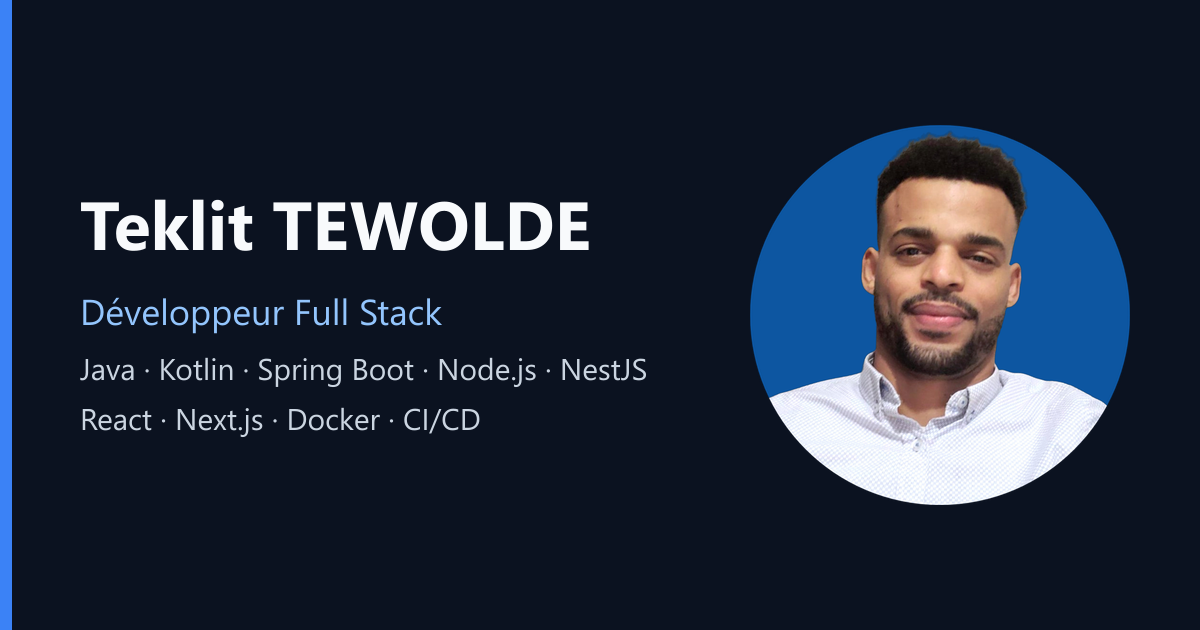
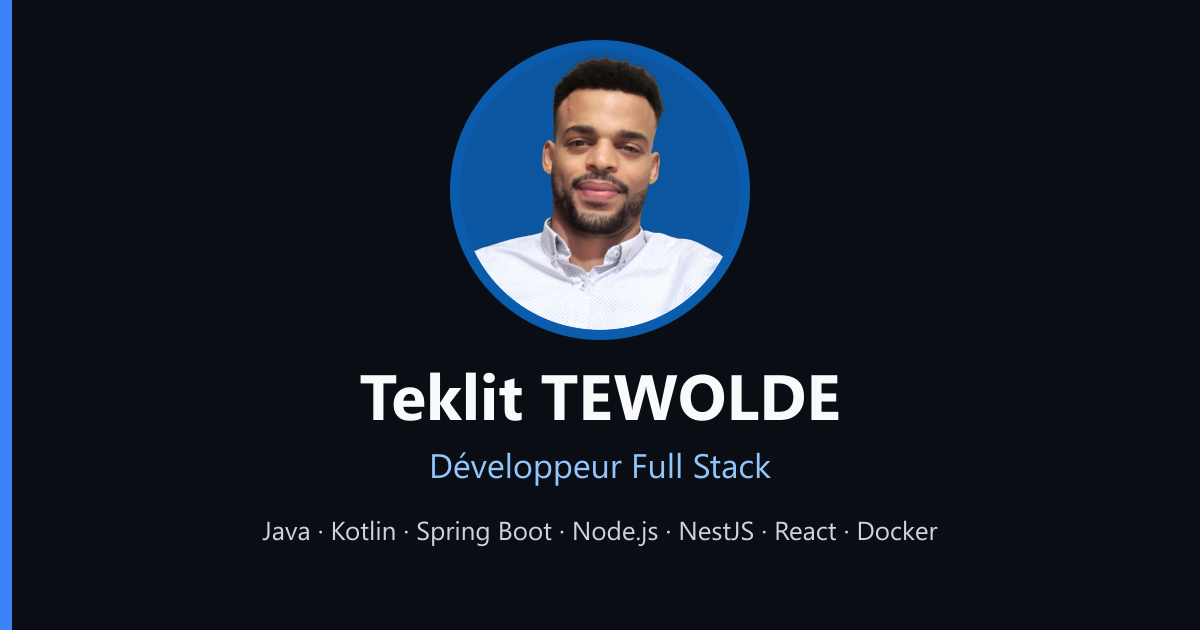
feat: add Open Graph image generation script and update SEO service

Changed region(s): [[0.0617, 0.0603, 0.9558, 0.8746], [0.37, 0.7238, 0.6475, 0.7841], [0.0617, 0.4524, 0.37, 0.5429]]

diff --git a/src/app/core/seo.service.ts b/src/app/core/seo.service.ts
@@ -17,6 +17,8 @@ const SITE_NAME = `${PROFILE.identity.fullName} — Portfolio`;
 const JSON_LD_ID = 'jsonld-page';
 /** Image de partage par défaut (`public/og-image.png`), au format recommandé 1,91:1. */
 const OG_IMAGE = {
+  /** `?v=` : à incrémenter quand l'image change, les plateformes la mettent en cache par URL. */
+  path: '/og-image.png?v=2',
   width: 1200,
   height: 630,
   alt: `${PROFILE.identity.fullName} — ${PROFILE.identity.title}`,
@@ -38,7 +40,7 @@ export class SeoService {
     const fullTitle = page.path === '/' ? page.title : `${page.title} | ${PROFILE.identity.fullName}`;
     // Tant que le domaine n'est pas configuré, on n'émet pas d'URL relative (invalide pour canonical / og:url).
     const url = this.absoluteUrl(page.path);
-    const image = this.absoluteUrl(page.image ?? '/og-image.png') ?? page.image ?? '/og-image.png';
+    const image = this.absoluteUrl(page.image ?? OG_IMAGE.path) ?? page.image ?? OG_IMAGE.path;
 
     this.title.setTitle(fullTitle);
     this.setName('description', page.description);
